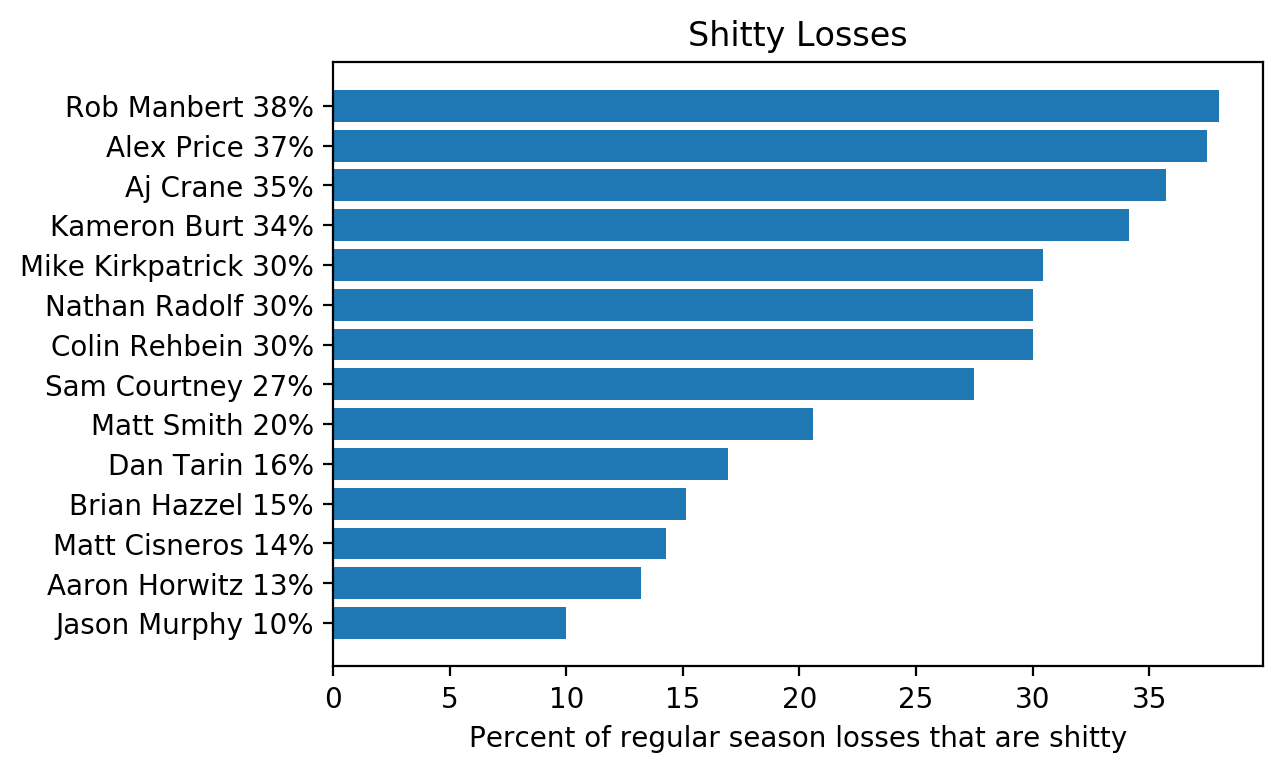
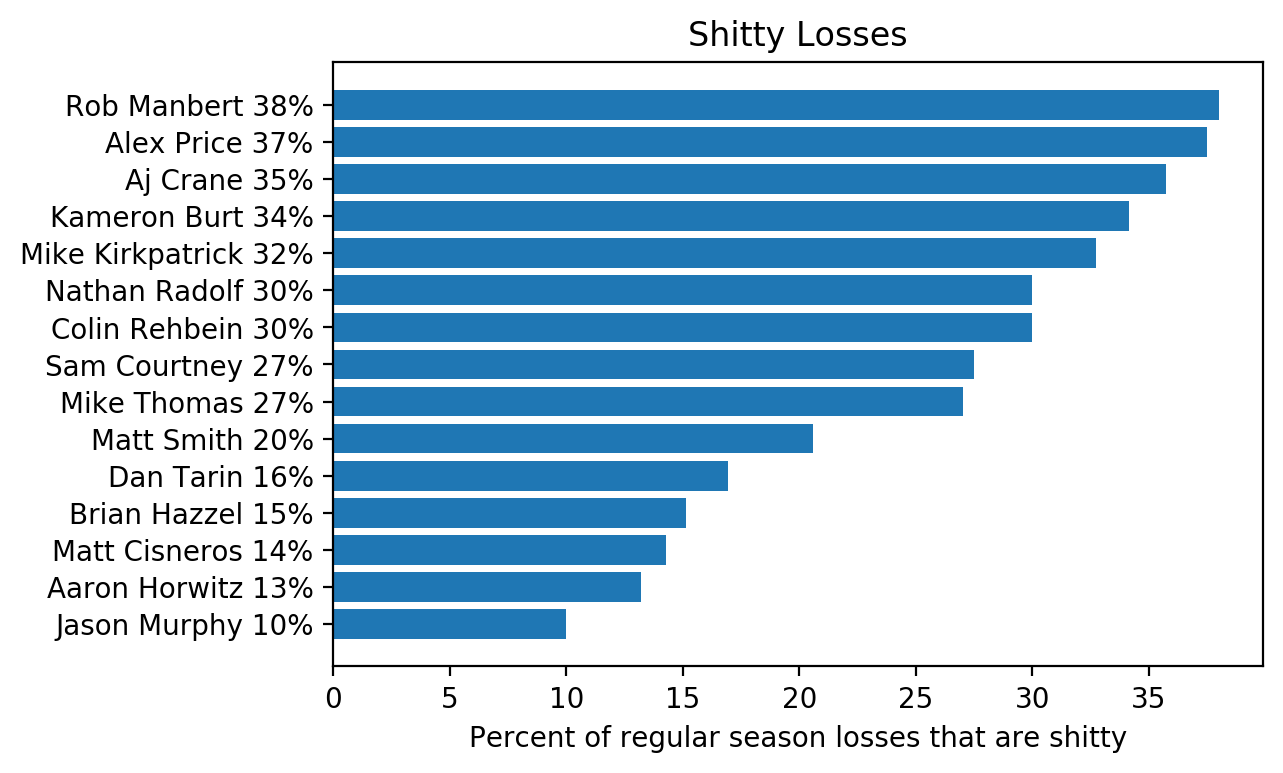
saving work

Changed region(s): [[0.0, 0.1242, 0.9353, 0.8383], [0.1559, 0.8072, 0.1871, 0.8383]]

diff --git a/analyses.py b/analyses.py
@@ -8,17 +8,22 @@ Created on Sat Oct 26 22:30:03 2019
 
 Ideas:
     Regular season:
+        -Win percentage
+        -Average rank
+        Average points for
+        Average points against
         -Bullshit wins
         -Shitty losses
         highest score ever
         Lowest score ever
-        -Win percentage
-        -Average rank
         Bench composition
         -Poor Coaching (players with 0 points not on bench)
-    Playoffs
+        Transactions
+    Playoffs:
         Most appearances
         Most wins
+    General Trends:
+        Average points per week
     See if players that win during the week actually influence the fantasy outcome
 
 
@@ -35,6 +40,7 @@ oswpDf = pd.read_csv('data_owner_season_week_player.csv')
 def assignCoach(row):
     '''Aj has a space after is name like an ass'''
     teamOwner = row['teamOwner']
+    teamName = row['teamName']
     coach = ''
     if teamOwner == 'AJ ':
         coach = 'Aj Crane'
@@ -57,9 +63,9 @@ def assignCoach(row):
     if teamOwner == 'Matthew':
         coach = 'Matt Cisneros'
     if teamOwner == 'Mike':
-        if teamOwner == 'Mr Pig Skinner':
+        if teamName == 'Mr Pig Skinner':
             coach = 'Mike Thomas'
-        elif teamOwner == 'MrPigSkinner':
+        elif teamName == 'MrPigSkinner':
             coach = 'Mike Thomas'
         else:
             coach = 'Mike Kirkpatrick'
@@ -107,6 +113,32 @@ seasonWeek = getSeasonWeekDict(osDf)
 oswDf['isRegSeason'] = oswDf.apply(isRegSeasonWeek, axis=1)
 oswpDf['isRegSeason'] = oswpDf.apply(isRegSeasonWeek, axis=1)
 del seasonWeek
+
+
+#~~~~~~~~~~~~~~~~~~~~~~~~~~~~~#
+#     ADD PLAYER POSITION     #
+#~~~~~~~~~~~~~~~~~~~~~~~~~~~~~#
+def playerPosition(row):
+    player = row['playerNameAndInfo']
+    playerPosition = None
+    DPs = [' LB ', ' DB ', ' DL ']
+    positions = ['QB', 'RB', 'WR', 'TE', 'K']
+    if player == '--empty--':
+        playerPosition = 'Empty'
+    elif ' DEF' in player:
+        playerPosition = 'DEF'
+    elif any(DP in player for DP in DPs):
+        playerPosition = 'DP'
+    else:
+        for pos in positions:
+            if ' {} '.format(pos) in player:
+                playerPosition = pos
+    return playerPosition
+
+oswpDf['playerPosition'] = oswpDf.apply(playerPosition, axis=1)
+
+
+
 
 
 #~~~~~~~~~~~~~~~~~~~~~~~~~~~~~~~~~~~~~~~#
@@ -279,9 +311,44 @@ plotPoorCoaching(oswpDf)
 
 
 
+#~~~~~~~~~~~~~~~~~~~~~~~~~~~#
+#     Bench Composition     #
+#~~~~~~~~~~~~~~~~~~~~~~~~~~~#
+def plotBenchComposition(df):
+    df = df[df.playerRosterPosition == 'BN']
+    measureLabel = 'playerPosition'
+    numerator = pd.DataFrame(df.groupby(['coach', measureLabel]).size(), columns=['numerator']).reset_index()
+    denominator = pd.DataFrame(df.groupby(['coach']).size(), columns=['denominator'])
+    df = pd.merge(numerator, denominator, on=['coach'])
+    df['percent'] = df['numerator']/df['denominator']*100
+    
+    pivot_df = df.pivot(index='coach', columns=measureLabel, values='percent')
+    pivot_df = pivot_df.fillna(0)
+    pivot_df = pivot_df[['QB','RB','WR','TE','K','DEF','DP']]
+    
+    pivot_df.plot.bar(stacked=True)
+    
+    
+    
+    
+    
+    labels = list(temp.index.values)
+    y_pos = np.arange(len(temp))
+    newLabels = []
+    for label in labels:
+        newLabel = label +' '+ str(int(temp[measureLabel][label])) + '%'
+        newLabels.append(newLabel)
+        
+    plt.barh(y_pos, temp[measureLabel])
+    plt.yticks(y_pos, newLabels)
+    plt.title('Regular Season Poor Coaching Percentage')
+    plt.xlabel('Percent of regular season players played that got less than 0 points')
+    plt.savefig('plots/reg_season_poor_coaching.png', dpi=200, bbox_inches='tight')
+
+plotPoorCoaching(oswpDf)
 
 
 
-
+df = oswpDf
 
 

diff --git a/web_scraping.py b/web_scraping.py
@@ -297,11 +297,11 @@ def gameCenter():
                     teamPoints.append(datum.text)
                 teamPoints = teamPoints[0]
                 
-                playerPosition = []
+                playerRosterPosition = []
                 data = soup.find_all('td', class_ = 'teamPosition')
                 for datum in data:
-                    playerPosition.append(datum.text)
-                playerPosition = playerPosition[0:16]                
+                    playerRosterPosition.append(datum.text)
+                playerRosterPosition = playerRosterPosition[0:16]                
                 
                 playerNameAndInfo = []
                 data = soup.find_all('td', class_ = 'playerNameAndInfo')
@@ -327,8 +327,8 @@ def gameCenter():
                     playerPoints.append(datum.text)
                 playerPoints = playerPoints[0:16]
                 
-                ls =  list(zip(playerPosition, playerNameAndInfo, playerPoints, playerOpponent, playerGameStatus))
-                df = pd.DataFrame(ls, columns = ['playerPosition', 'playerNameAndInfo', 'playerPoints', 'playerOpponent', 'playerGameStatus'])
+                ls =  list(zip(playerRosterPosition, playerNameAndInfo, playerPoints, playerOpponent, playerGameStatus))
+                df = pd.DataFrame(ls, columns = ['playerRosterPosition', 'playerNameAndInfo', 'playerPoints', 'playerOpponent', 'playerGameStatus'])
                 df.insert(0, 'teamPoints', teamPoints)
                 df.insert(0, 'teamName', teamName)
                 df.insert(0, 'teamOwner', teamOwner)
